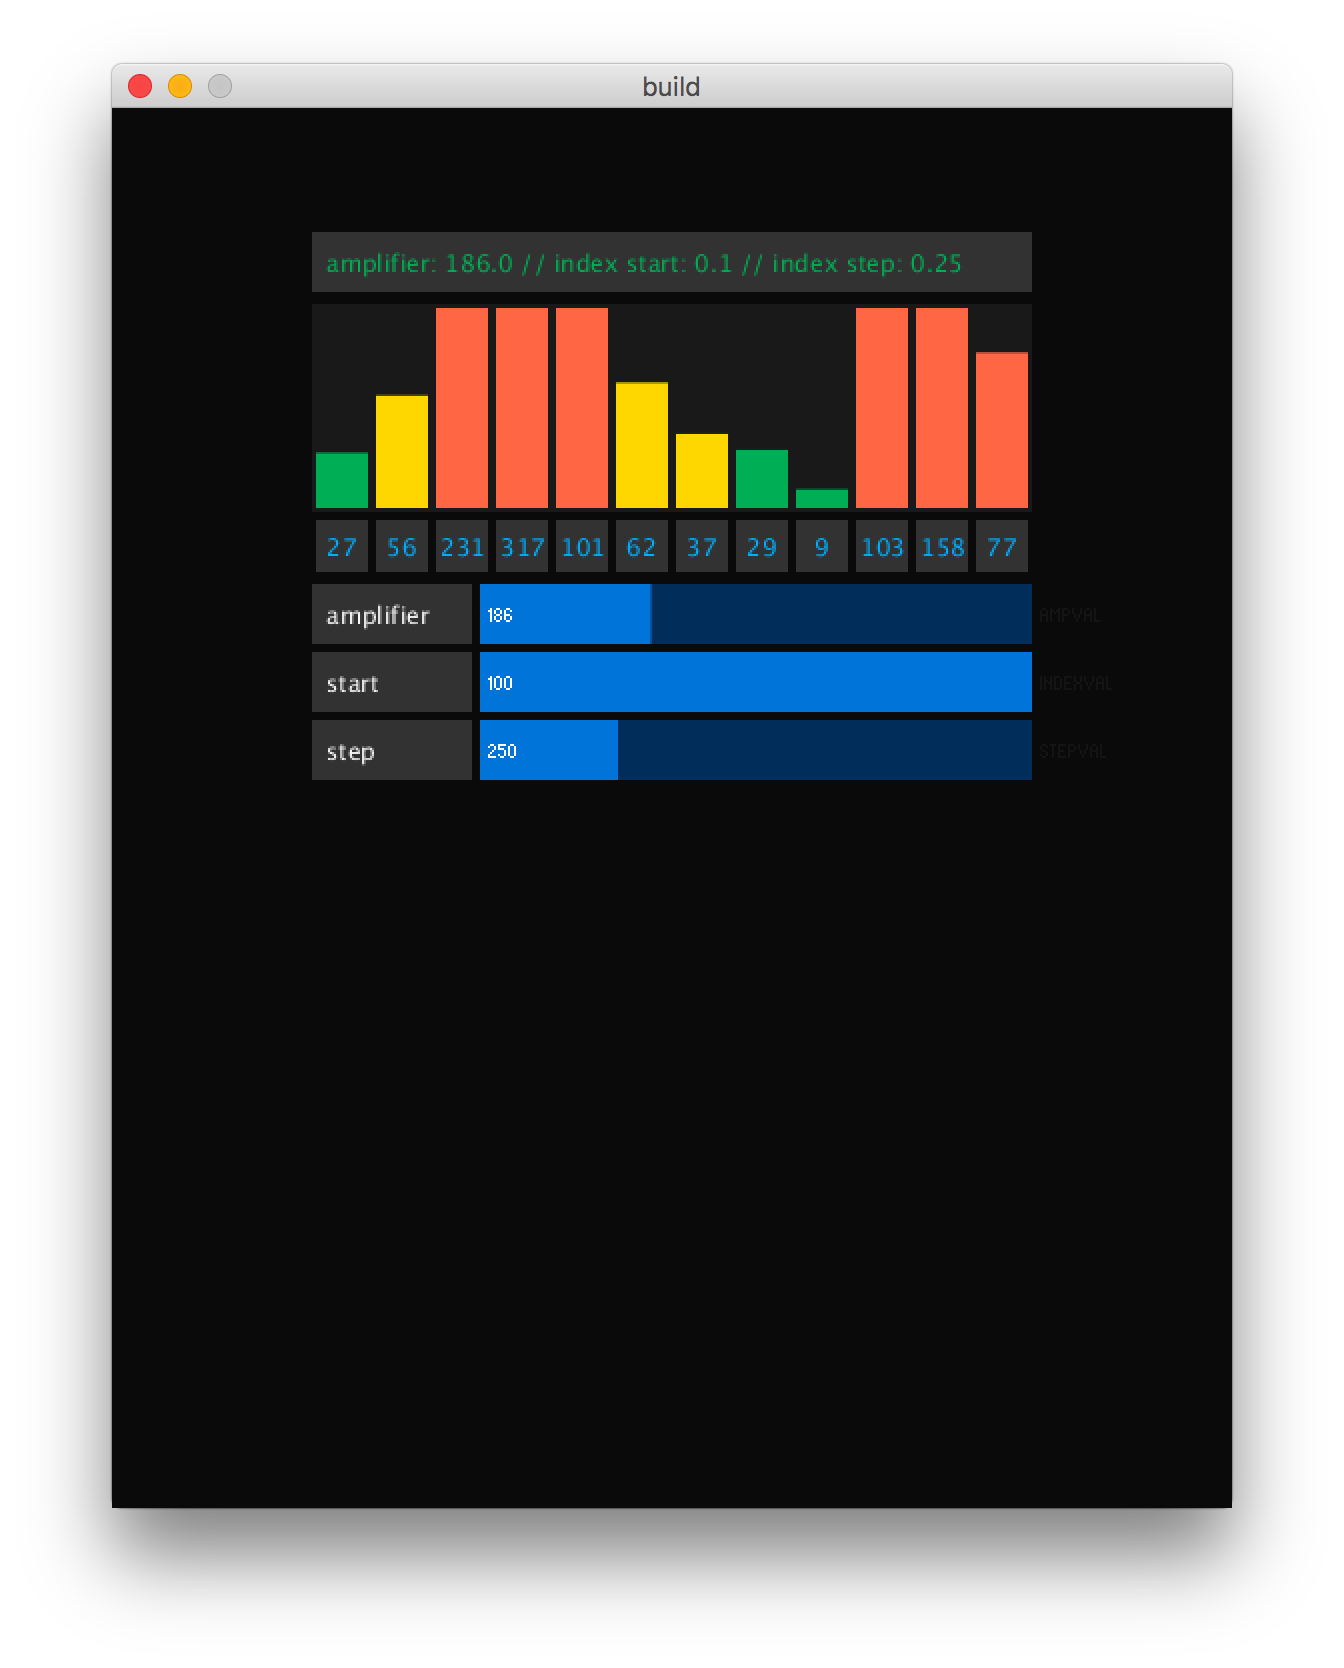
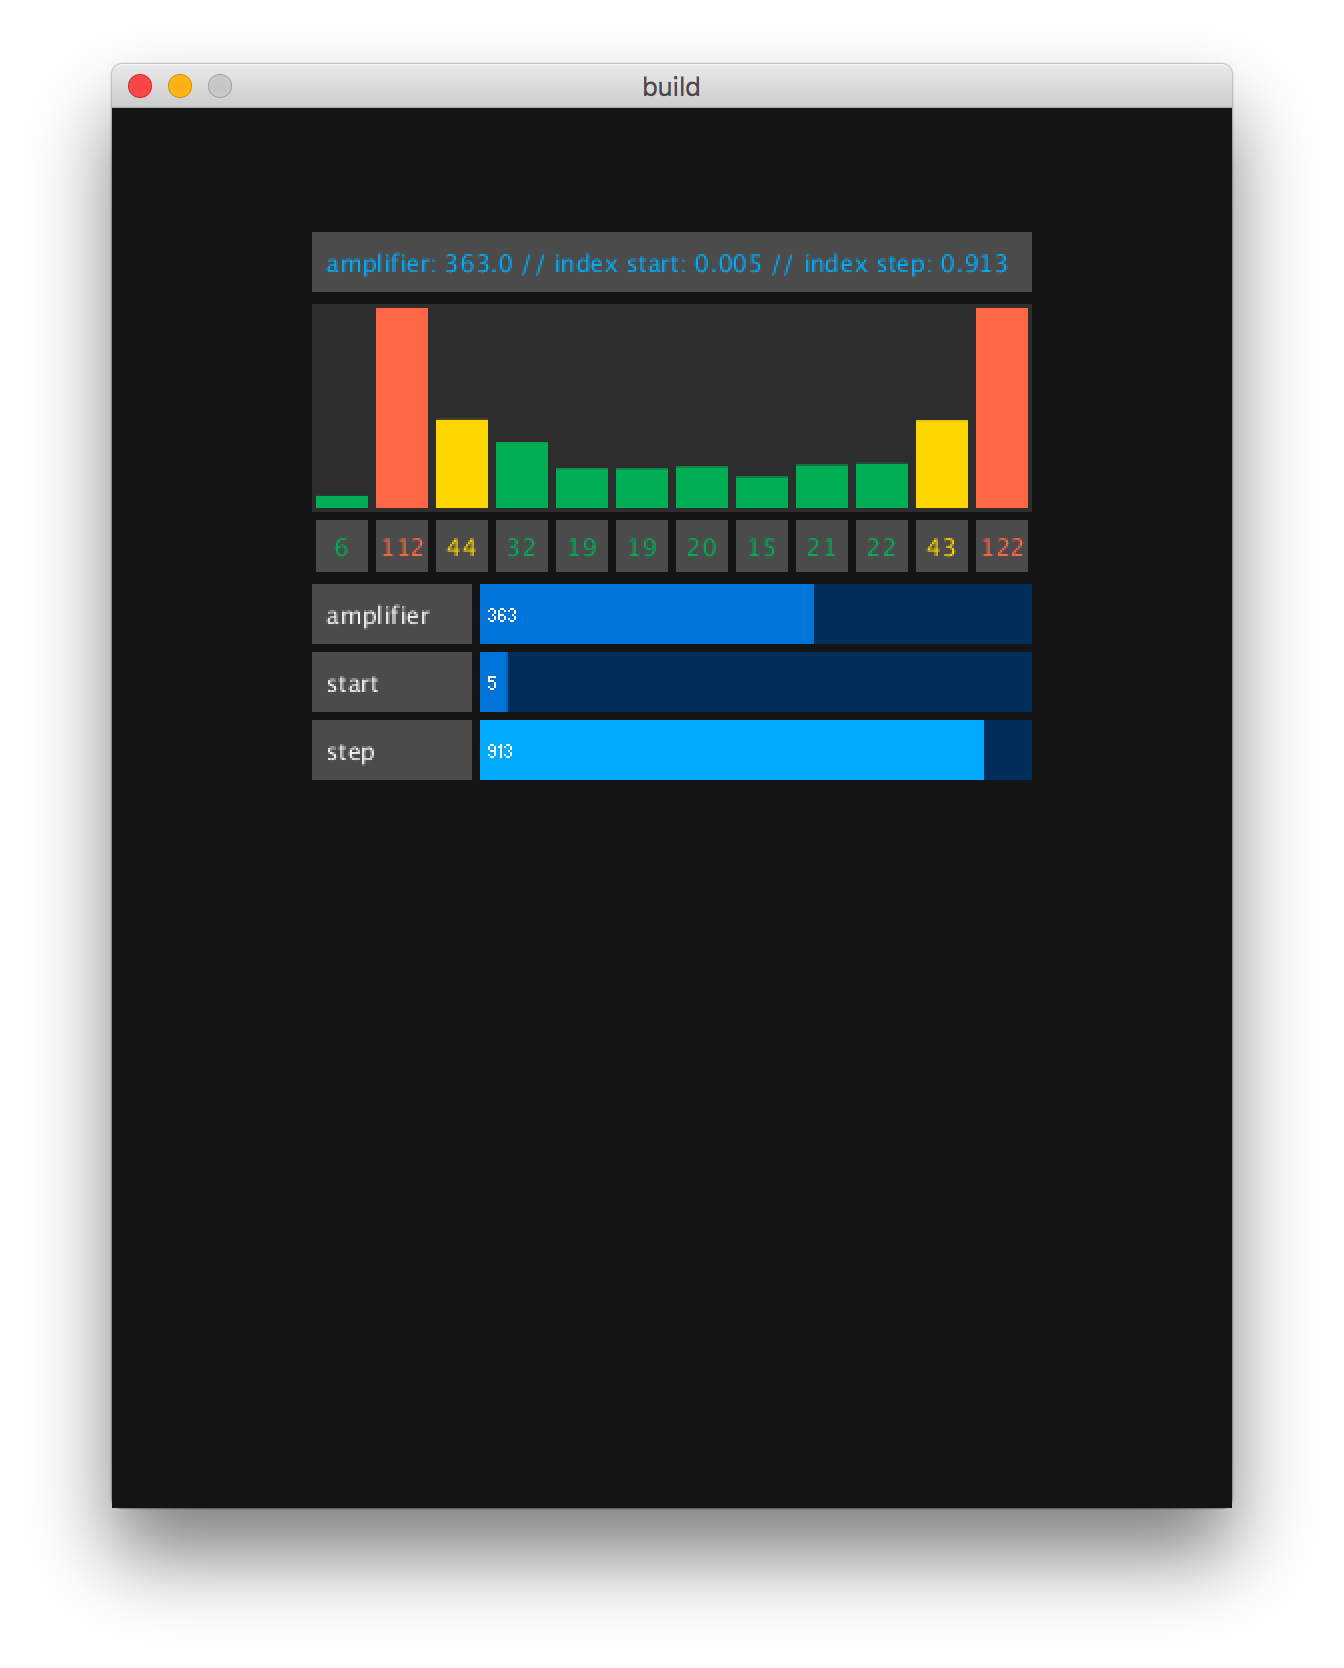
ui ok now

Changed region(s): [[0.2188, 0.1247, 0.7812, 0.4676]]

diff --git a/step 7 – UI enhanced/build/build-tmp/source/build.java b/step 7 – UI enhanced/build/build-tmp/source/build.java
@@ -1,4 +1,24 @@
-color bgC       = 10;
+import processing.core.*; 
+import processing.data.*; 
+import processing.event.*; 
+import processing.opengl.*; 
+
+import ddf.minim.*; 
+import ddf.minim.analysis.*; 
+import controlP5.*; 
+
+import java.util.HashMap; 
+import java.util.ArrayList; 
+import java.io.File; 
+import java.io.BufferedReader; 
+import java.io.PrintWriter; 
+import java.io.InputStream; 
+import java.io.OutputStream; 
+import java.io.IOException; 
+
+public class build extends PApplet {
+
+int bgC       = 20;
 String dataPATH = "../../data/";
 
 // ================================================================
@@ -8,9 +28,9 @@ String  renderPATH = "../render/";
 
 // ================================================================
 
-import ddf.minim.*;
-import ddf.minim.analysis.*;
-import controlP5.*;
+
+
+
 
 // ================================================================
 
@@ -34,10 +54,10 @@ int rangeVal;
 int audioRange  = 12;
 int audioMax = 100;
 
-float audioAmp = 125.0;
-float audioIndex = 0.05;
+float audioAmp = 125.0f;
+float audioIndex = 0.05f;
 float audioIndexAmp = audioIndex;
-float audioIndexStep = 0.75;
+float audioIndexStep = 0.75f;
 
 String settingsStr = "amplifier: " + audioAmp + " // index start: " + audioIndex +  " // index step: " + audioIndexStep;
 
@@ -60,13 +80,13 @@ int labelW       = 80;
 
 // ================================================================
 
-void settings(){ 
+public void settings(){ 
   size(stageW, stageH);
 }
 
 // ================================================================
 
-void setup() {
+public void setup() {
   background(bgC);
 
   minim = new Minim(this);
@@ -83,8 +103,8 @@ void setup() {
   ampCtrl.addSlider("ampVal")
     .setPosition(stageM + labelW + valuePadding, stageM + audioMax + (valuePadding * 2) + rectS)
     .setSize((audioRange * rectS) - labelW - valuePadding, rectS)
-    .setRange(0.0, 600.0)
-    .setValue(25.0)
+    .setRange(0.0f, 600.0f)
+    .setValue(25.0f)
     .setColorCaptionLabel(color(20));
 
   indexCtrl = new ControlP5(this);
@@ -92,7 +112,7 @@ void setup() {
     .setPosition(stageM + labelW + valuePadding, stageM + audioMax + (valuePadding * 3) + (rectS * 2))
     .setSize((audioRange * rectS) - labelW - valuePadding, rectS)
     .setRange(0, 100)
-    .setValue(500)
+    .setValue(5)
     .setColorCaptionLabel(color(20));
   
   stepCtrl = new ControlP5(this);
@@ -115,7 +135,7 @@ void setup() {
 } 
 
 // ================================================================
-void draw() {
+public void draw() {
   background(bgC);
 
   // linking controllers
@@ -130,14 +150,14 @@ void draw() {
   audioFFT.forward(audio.mix);
 
   // Render stage
-  fill(25); noStroke(); 
+  fill(45); noStroke(); 
   rect(stageM, stageM - (valuePadding / 2), audioRange * rectS, audioMax + valuePadding);
 
   // Print values
-  fill(50); noStroke();
+  fill(75); noStroke();
   rect(stageM, stageM - (rectS + (valuePadding * 2)),(audioRange * rectS), rectS);
 
-  fill(#00AE55);
+  fill(0xff00AEFF);
   textAlign(LEFT);
   text(settingsStr, stageM + (rectS / 4), stageM - (rectS + (valuePadding * 2)) + (rectS  - (rectS / 3)));
 
@@ -150,18 +170,21 @@ void draw() {
 
     // Render bars
     noStroke();
-    if (indexCon < 35) fill(#00AE55, 255);
-    else if (indexCon < 75) fill(#FFD700, 255);
-    else fill(#FF6644, 255);
+    if (indexCon < 35) fill(0xff00AE55, 255);
+    else if (indexCon < 75) fill(0xffFFD700, 255);
+    else fill(0xffFF6644, 255);
     
     rect(xStart + (i * xSpace) + (valuePadding / 2), yStart + audioMax, rectS - valuePadding, - indexCon );
     // rect(xStart + (i * xSpace) + (valuePadding / 2), yStart, rectS - valuePadding, indexAvg );
 
     // Print values
-    fill(50); noStroke();
+    fill(75); noStroke();
     rect(xStart + (i * xSpace) + (valuePadding / 2), stageM + audioMax + valuePadding + (valuePadding / 2), rectS - valuePadding, rectS - valuePadding );
 
-    fill(#00AEFF);
+    // fill(#00AEFF);
+    if (indexCon < 35) fill(0xff00AE55, 255);
+    else if (indexCon < 75) fill(0xffFFD700, 255);
+    else fill(0xffFF6644, 255);
     textAlign(CENTER);
     text(str((int)indexAvg), xStart + (i * xSpace) + (rectS / 2), stageM + audioMax + valuePadding + (rectS  - (rectS / 3)));
 
@@ -171,19 +194,19 @@ void draw() {
   audioIndexAmp = audioIndex;
 
   // controller labels
-  fill(50); noStroke();
+  fill(75); noStroke();
   rect(stageM, stageM + audioMax + (valuePadding * 2) + rectS, labelW, rectS);
-  fill(#F7F7F7); textAlign(LEFT);
+  fill(0xffF7F7F7); textAlign(LEFT);
   text("amplifier", stageM + (rectS / 4), stageM + audioMax + (valuePadding * 2) + rectS + (rectS  - (rectS / 3)));
   
-  fill(50); noStroke();
+  fill(75); noStroke();
   rect(stageM, stageM + audioMax + (valuePadding * 3) + (rectS * 2), labelW, rectS);
-  fill(#F7F7F7); textAlign(LEFT);
+  fill(0xffF7F7F7); textAlign(LEFT);
   text("start", stageM + (rectS / 4), stageM + audioMax + (valuePadding * 3) + (rectS * 2) + (rectS  - (rectS / 3)));
   
-  fill(50); noStroke();
+  fill(75); noStroke();
   rect(stageM, stageM + audioMax + (valuePadding * 4) + (rectS * 3), labelW, rectS);
-  fill(#F7F7F7); textAlign(LEFT);
+  fill(0xffF7F7F7); textAlign(LEFT);
   text("step", stageM + (rectS / 4), stageM + audioMax + (valuePadding * 4) + (rectS * 3) + (rectS  - (rectS / 3)));
 
   // fill(50); noStroke();
@@ -195,7 +218,7 @@ void draw() {
 
 // ================================================================
 
-void stop() {
+public void stop() {
   audio.close();
   minim.stop();
   super.stop();
@@ -205,3 +228,12 @@ void stop() {
 
 // ================================================================
 
+  static public void main(String[] passedArgs) {
+    String[] appletArgs = new String[] { "build" };
+    if (passedArgs != null) {
+      PApplet.main(concat(appletArgs, passedArgs));
+    } else {
+      PApplet.main(appletArgs);
+    }
+  }
+}
